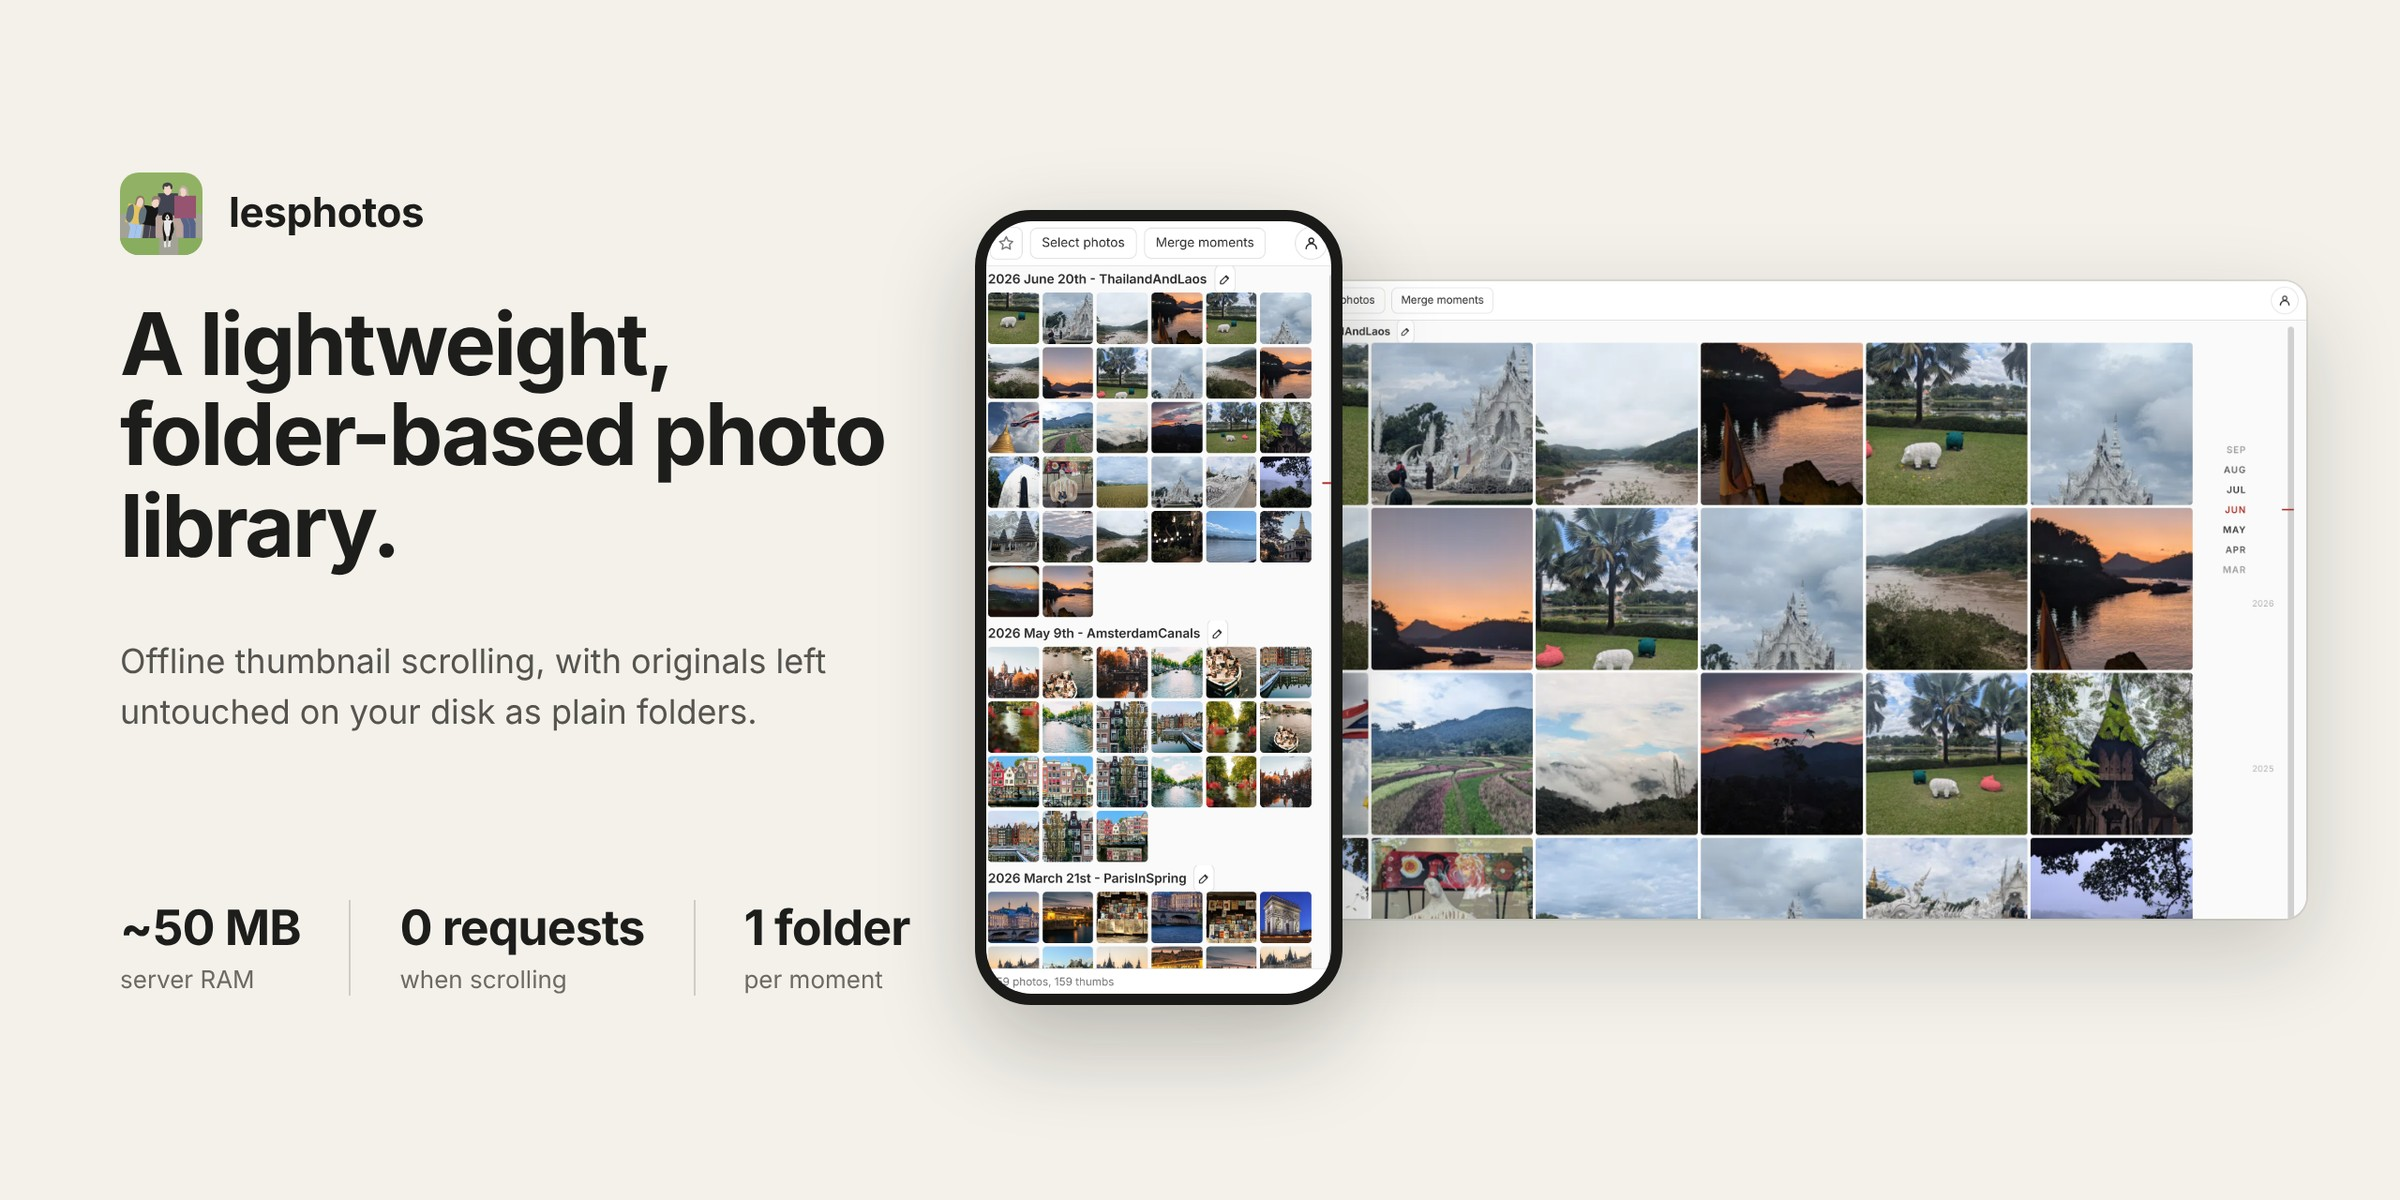
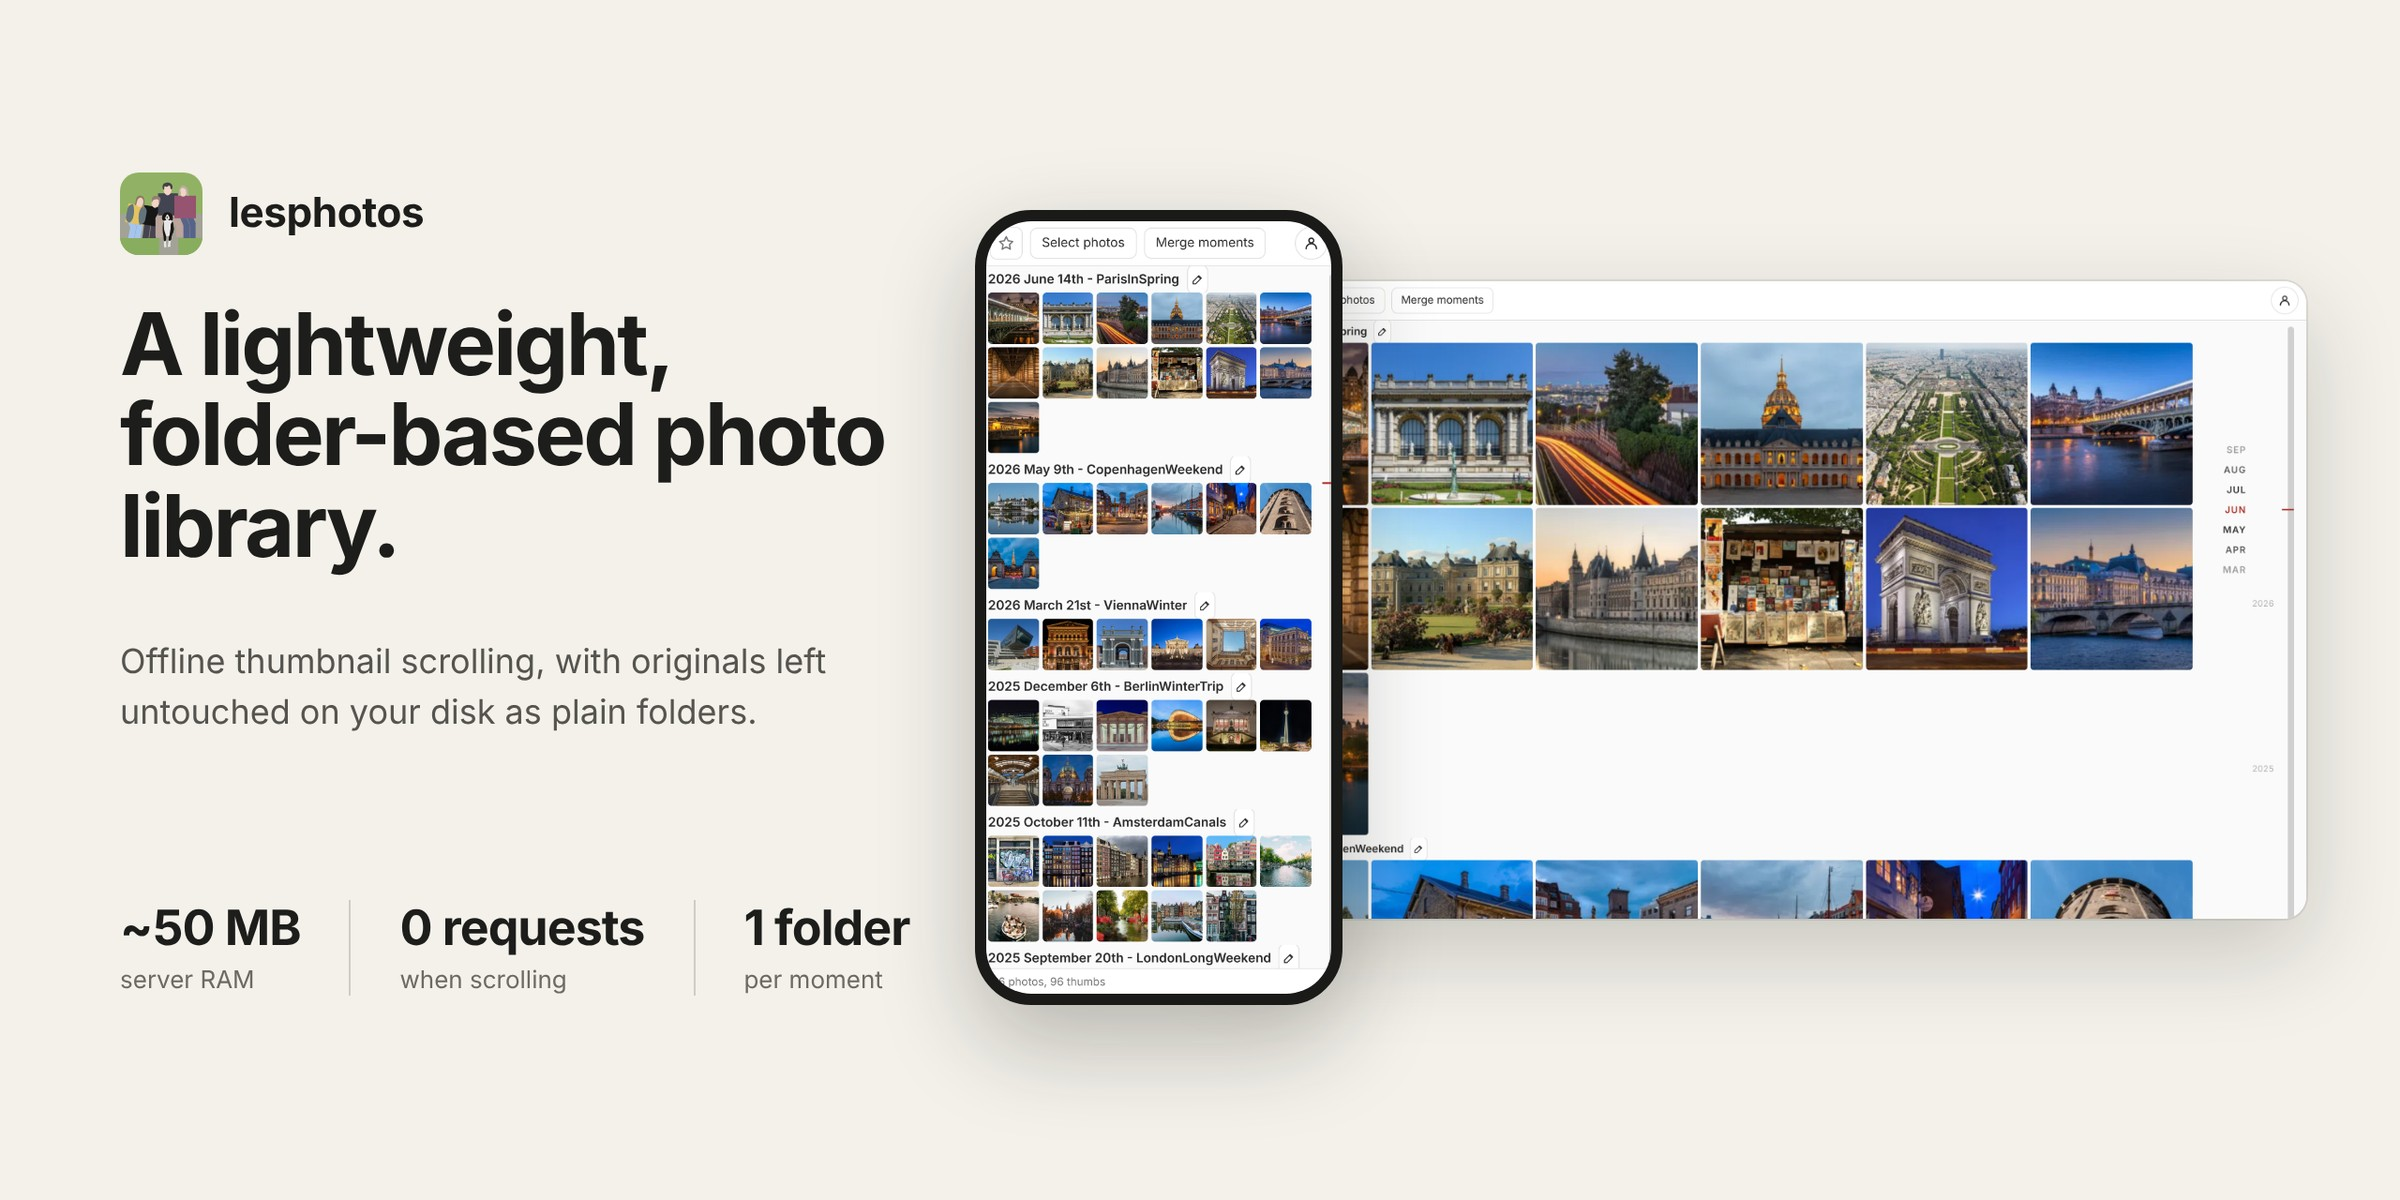
README: professional demo photos only in the grid, no crops; update credits
Claude-Session: https://claude.ai/code/session_0123F2NRQWg9sRNUqxm3J8r4

Changed region(s): [[0.4062, 0.2158, 0.9375, 0.8325]]

diff --git a/docs/images/CREDITS.md b/docs/images/CREDITS.md
@@ -1,18 +1,10 @@
 # Image credits
 
-The screenshots in this folder show a demo library. Some photos are cropped or mirrored to fill the grid.
-
-## The author's own photos
-
-The Thailand and Laos moment is the author's own photography.
-
-## Unsplash
-
-Amsterdam, London, Rome and Cinque Terre: 19 photos from [Unsplash](https://unsplash.com), used under the [Unsplash License](https://unsplash.com/license).
+The screenshots in this folder show a demo library built from the sources below.
 
 ## Wikimedia Commons
 
-Paris, Berlin, Prague and Lisbon: photos from [Wikimedia Commons](https://commons.wikimedia.org), shown as small thumbnails and resized.
+Photos from [Wikimedia Commons](https://commons.wikimedia.org), resized for the screenshots. Licences are listed per photo; CC BY and CC BY-SA require attribution.
 
 | Photo | Author | Licence |
 |---|---|---|
@@ -36,3 +28,48 @@ Paris, Berlin, Prague and Lisbon: photos from [Wikimedia Commons](https://common
 | [Torre Belém April 2009-4a.jpg](https://commons.wikimedia.org/wiki/File:Torre_Bel%C3%A9m_April_2009-4a.jpg) | Alvesgaspar | CC BY-SA 3.0 |
 | [Lissabon - Praca do Comercio - Arcades.jpg](https://commons.wikimedia.org/wiki/File:Lissabon_-_Praca_do_Comercio_-_Arcades.jpg) | Ingo Mehling | CC BY-SA 4.0 |
 | [Old Arsenal da Marinha and Doca da Caldeirinha, Cais do Sodré, Lisbon, Portugal julesvernex2.jpg](https://commons.wikimedia.org/wiki/File:Old_Arsenal_da_Marinha_and_Doca_da_Caldeirinha,_Cais_do_Sodr%C3%A9,_Lisbon,_Portugal_julesvernex2.jpg) | Jules Verne Times Two | CC BY-SA 4.0 |
+| [20180109 Vienna State Opera at blue hour 850 9387.jpg](https://commons.wikimedia.org/wiki/File:20180109_Vienna_State_Opera_at_blue_hour_850_9387.jpg) | Granada | CC BY-SA 4.0 |
+| [20250502 Bäckerstraße 7 Vienna 01.jpg](https://commons.wikimedia.org/wiki/File:20250502_B%C3%A4ckerstra%C3%9Fe_7_Vienna_01.jpg) | Flocci Nivis | CC BY-SA 4.0 |
+| [Parlament Wien abends.jpg](https://commons.wikimedia.org/wiki/File:Parlament_Wien_abends.jpg) | Thomas Wolf, www.foto-tw.de | CC BY-SA 3.0 de |
+| [Palacio de Schönbrunn, Viena, Austria, 2020-02-02, DD 10.jpg](https://commons.wikimedia.org/wiki/File:Palacio_de_Sch%C3%B6nbrunn,_Viena,_Austria,_2020-02-02,_DD_10.jpg) | Diego Delso | CC BY-SA 4.0 |
+| [Musikverein, Viena, Austria, 2020-01-31, DD 170-172 HDR.jpg](https://commons.wikimedia.org/wiki/File:Musikverein,_Viena,_Austria,_2020-01-31,_DD_170-172_HDR.jpg) | Diego Delso | CC BY-SA 4.0 |
+| [Campus WU LC D1 TC DSC 1440w.jpg](https://commons.wikimedia.org/wiki/File:Campus_WU_LC_D1_TC_DSC_1440w.jpg) | P e z i | CC BY-SA 3.0 |
+| [Ponte di Rialto Venice 1.jpg](https://commons.wikimedia.org/wiki/File:Ponte_di_Rialto_Venice_1.jpg) | kallerna | CC BY-SA 4.0 |
+| [Tramonto su San Marco Venezia 2.jpg](https://commons.wikimedia.org/wiki/File:Tramonto_su_San_Marco_Venezia_2.jpg) | This Photo was taken by Wolfgang Moroder. Feel free to use my photos,  | CC BY-SA 3.0 |
+| [2018 - Christiansborg from the Marble Bridge.jpg](https://commons.wikimedia.org/wiki/File:2018_-_Christiansborg_from_the_Marble_Bridge.jpg) | Moahim | CC BY-SA 4.0 |
+| [2018 - Magstræde street in evening.jpg](https://commons.wikimedia.org/wiki/File:2018_-_Magstr%C3%A6de_street_in_evening.jpg) | Moahim | CC BY-SA 4.0 |
+| [2018 - Nyhavn on sunset.jpg](https://commons.wikimedia.org/wiki/File:2018_-_Nyhavn_on_sunset.jpg) | Moahim | CC BY-SA 4.0 |
+| [2019 - Caritasbrønden om aftenen.jpg](https://commons.wikimedia.org/wiki/File:2019_-_Caritasbr%C3%B8nden_om_aftenen.jpg) | Moahim | CC BY-SA 4.0 |
+| [Copenhagen, Kødbyen by night, September 2022.jpg](https://commons.wikimedia.org/wiki/File:Copenhagen,_K%C3%B8dbyen_by_night,_September_2022.jpg) | Terragio67 | CC BY-SA 4.0 |
+| [Kopenhagen (DK), Peblinge-See, Søpavillonen -- 2017 -- 1453.jpg](https://commons.wikimedia.org/wiki/File:Kopenhagen_(DK),_Peblinge-See,_S%C3%B8pavillonen_--_2017_--_1453.jpg) | Dietmar Rabich | CC BY-SA 4.0 |
+| [Kopenhagen (DK), Runder Turm -- 2017 -- 1633.jpg](https://commons.wikimedia.org/wiki/File:Kopenhagen_(DK),_Runder_Turm_--_2017_--_1633.jpg) | Dietmar Rabich | CC BY-SA 4.0 |
+| [Canal houses and Oude Kerk at blue hour with water reflection in Damrak Amsterdam Netherlands.jpg](https://commons.wikimedia.org/wiki/File:Canal_houses_and_Oude_Kerk_at_blue_hour_with_water_reflection_in_Damrak_Amsterdam_Netherlands.jpg) | Basile Morin | CC BY-SA 4.0 |
+| [Colorful canal houses at golden hour in Damrak avenue Amsterdam the Netherlands.jpg](https://commons.wikimedia.org/wiki/File:Colorful_canal_houses_at_golden_hour_in_Damrak_avenue_Amsterdam_the_Netherlands.jpg) | Basile Morin | CC BY-SA 4.0 |
+| [Water reflection of canal houses at blue hour in Damrak Amsterdam the Netherlands.jpg](https://commons.wikimedia.org/wiki/File:Water_reflection_of_canal_houses_at_blue_hour_in_Damrak_Amsterdam_the_Netherlands.jpg) | Basile Morin | CC BY-SA 4.0 |
+| [Parked bicycle with graffitied building facade and doors in Amsterdam.jpg](https://commons.wikimedia.org/wiki/File:Parked_bicycle_with_graffitied_building_facade_and_doors_in_Amsterdam.jpg) | Basile Morin | CC BY-SA 4.0 |
+| [Pont de Bercy, Paris 23 December 2021.jpg](https://commons.wikimedia.org/wiki/File:Pont_de_Bercy,_Paris_23_December_2021.jpg) | Pierre Blaché from Paris, France | CC0 |
+| [Pont de Bir-Hakeim at night, Paris 3 February 2019.jpg](https://commons.wikimedia.org/wiki/File:Pont_de_Bir-Hakeim_at_night,_Paris_3_February_2019.jpg) | Pierre Blaché from Paris, France | CC0 |
+| [Champ de Mars from the Eiffel Tower - July 2006 edit.jpg](https://commons.wikimedia.org/wiki/File:Champ_de_Mars_from_the_Eiffel_Tower_-_July_2006_edit.jpg) | Diliff, edited by Fir0002 | CC BY 2.5 |
+| [Los Inválidos, París, Francia, 2022-10-30, DD 128-130 HDR.jpg](https://commons.wikimedia.org/wiki/File:Los_Inv%C3%A1lidos,_Par%C3%ADs,_Francia,_2022-10-30,_DD_128-130_HDR.jpg) | Diego Delso | CC BY-SA 4.0 |
+| [Light trails near Paris, 27 May 2022.jpg](https://commons.wikimedia.org/wiki/File:Light_trails_near_Paris,_27_May_2022.jpg) | Pierre Blaché from Paris, France | CC0 |
+| [Musée Galliera, Paris 21 July 2017.jpg](https://commons.wikimedia.org/wiki/File:Mus%C3%A9e_Galliera,_Paris_21_July_2017.jpg) | Joe deSousa | CC0 |
+| [Pont de Bir-Hakeim and view on the 16th Arrondissement of Paris 140124 1.jpg](https://commons.wikimedia.org/wiki/File:Pont_de_Bir-Hakeim_and_view_on_the_16th_Arrondissement_of_Paris_140124_1.jpg) | DXR | CC BY-SA 3.0 |
+| [Alte Nationalgalerie at night (MK).jpg](https://commons.wikimedia.org/wiki/File:Alte_Nationalgalerie_at_night_(MK).jpg) | Mathias Krumbholz | CC BY-SA 3.0 |
+| [Haus der Kulturen der Welt, Blaue Stunde, Berlin, 160521, ako.jpg](https://commons.wikimedia.org/wiki/File:Haus_der_Kulturen_der_Welt,_Blaue_Stunde,_Berlin,_160521,_ako.jpg) | Ansgar Koreng | CC BY-SA 3.0 de |
+| [Neue Wache, Unter den Linden, Berlin-Mitte, Nacht (HDR).jpg](https://commons.wikimedia.org/wiki/File:Neue_Wache,_Unter_den_Linden,_Berlin-Mitte,_Nacht_(HDR).jpg) | Ansgar Koreng | CC BY 3.0 de |
+| [Bikini-Haus-Berlin-schwarz-weiss-2023.jpg](https://commons.wikimedia.org/wiki/File:Bikini-Haus-Berlin-schwarz-weiss-2023.jpg) | Tuxyso | CC BY-SA 4.0 |
+| [Estación Central, Berlín, Alemania, 2016-04-21, DD 43-45 HDR.JPG](https://commons.wikimedia.org/wiki/File:Estaci%C3%B3n_Central,_Berl%C3%ADn,_Alemania,_2016-04-21,_DD_43-45_HDR.JPG) | Diego Delso | CC BY-SA 4.0 |
+| [Casa Danzante, Praga, República Checa, 2022-07-01, DD 01.jpg](https://commons.wikimedia.org/wiki/File:Casa_Danzante,_Praga,_Rep%C3%BAblica_Checa,_2022-07-01,_DD_01.jpg) | Diego Delso | CC BY-SA 4.0 |
+| [Praha Spanish Synagogue Dome 01.jpg](https://commons.wikimedia.org/wiki/File:Praha_Spanish_Synagogue_Dome_01.jpg) | Uoaei1 | CC BY-SA 4.0 |
+| [Puente de las Legiones, Praga, República Checa, 2022-07-01, DD 11-13 HDR.jpg](https://commons.wikimedia.org/wiki/File:Puente_de_las_Legiones,_Praga,_Rep%C3%BAblica_Checa,_2022-07-01,_DD_11-13_HDR.jpg) | Diego Delso | CC BY-SA 4.0 |
+| [Torre de agua de Šítkov, Praga, República Checa, 2022-07-01, DD 02-04 HDR.jpg](https://commons.wikimedia.org/wiki/File:Torre_de_agua_de_%C5%A0%C3%ADtkov,_Praga,_Rep%C3%BAblica_Checa,_2022-07-01,_DD_02-04_HDR.jpg) | Diego Delso | CC BY-SA 4.0 |
+| [Monasterio de los Jerónimos, Lisboa, Portugal, 2022-07-24, DD 38-40 HDR.jpg](https://commons.wikimedia.org/wiki/File:Monasterio_de_los_Jer%C3%B3nimos,_Lisboa,_Portugal,_2022-07-24,_DD_38-40_HDR.jpg) | Diego Delso | CC BY-SA 4.0 |
+| [Vasco da Gama Bridge B&W (crop2).jpg](https://commons.wikimedia.org/wiki/File:Vasco_da_Gama_Bridge_B%26W_(crop2).jpg) | File:Vasco da Gama Bridge B&W.jpg: William Warby derivative work: Bruc | CC BY 2.0 |
+
+## Unsplash
+
+Amsterdam, London, Rome and Cinque Terre photos from [Unsplash](https://unsplash.com), used under the [Unsplash License](https://unsplash.com/license).
+
+## The author
+
+The Thailand and Laos moment is the author's own photography.

diff --git a/README.md b/README.md
@@ -49,7 +49,7 @@ library and there is no shared timeline or admin account.
   </tr>
 </table>
 
-<sub>Screenshots show a demo library of the author's photos plus Unsplash and Wikimedia Commons images; see [credits](docs/images/CREDITS.md).</sub>
+<sub>Screenshots show a demo library of Wikimedia Commons and Unsplash photos; see [credits](docs/images/CREDITS.md).</sub>
 
 ### By the numbers
 
